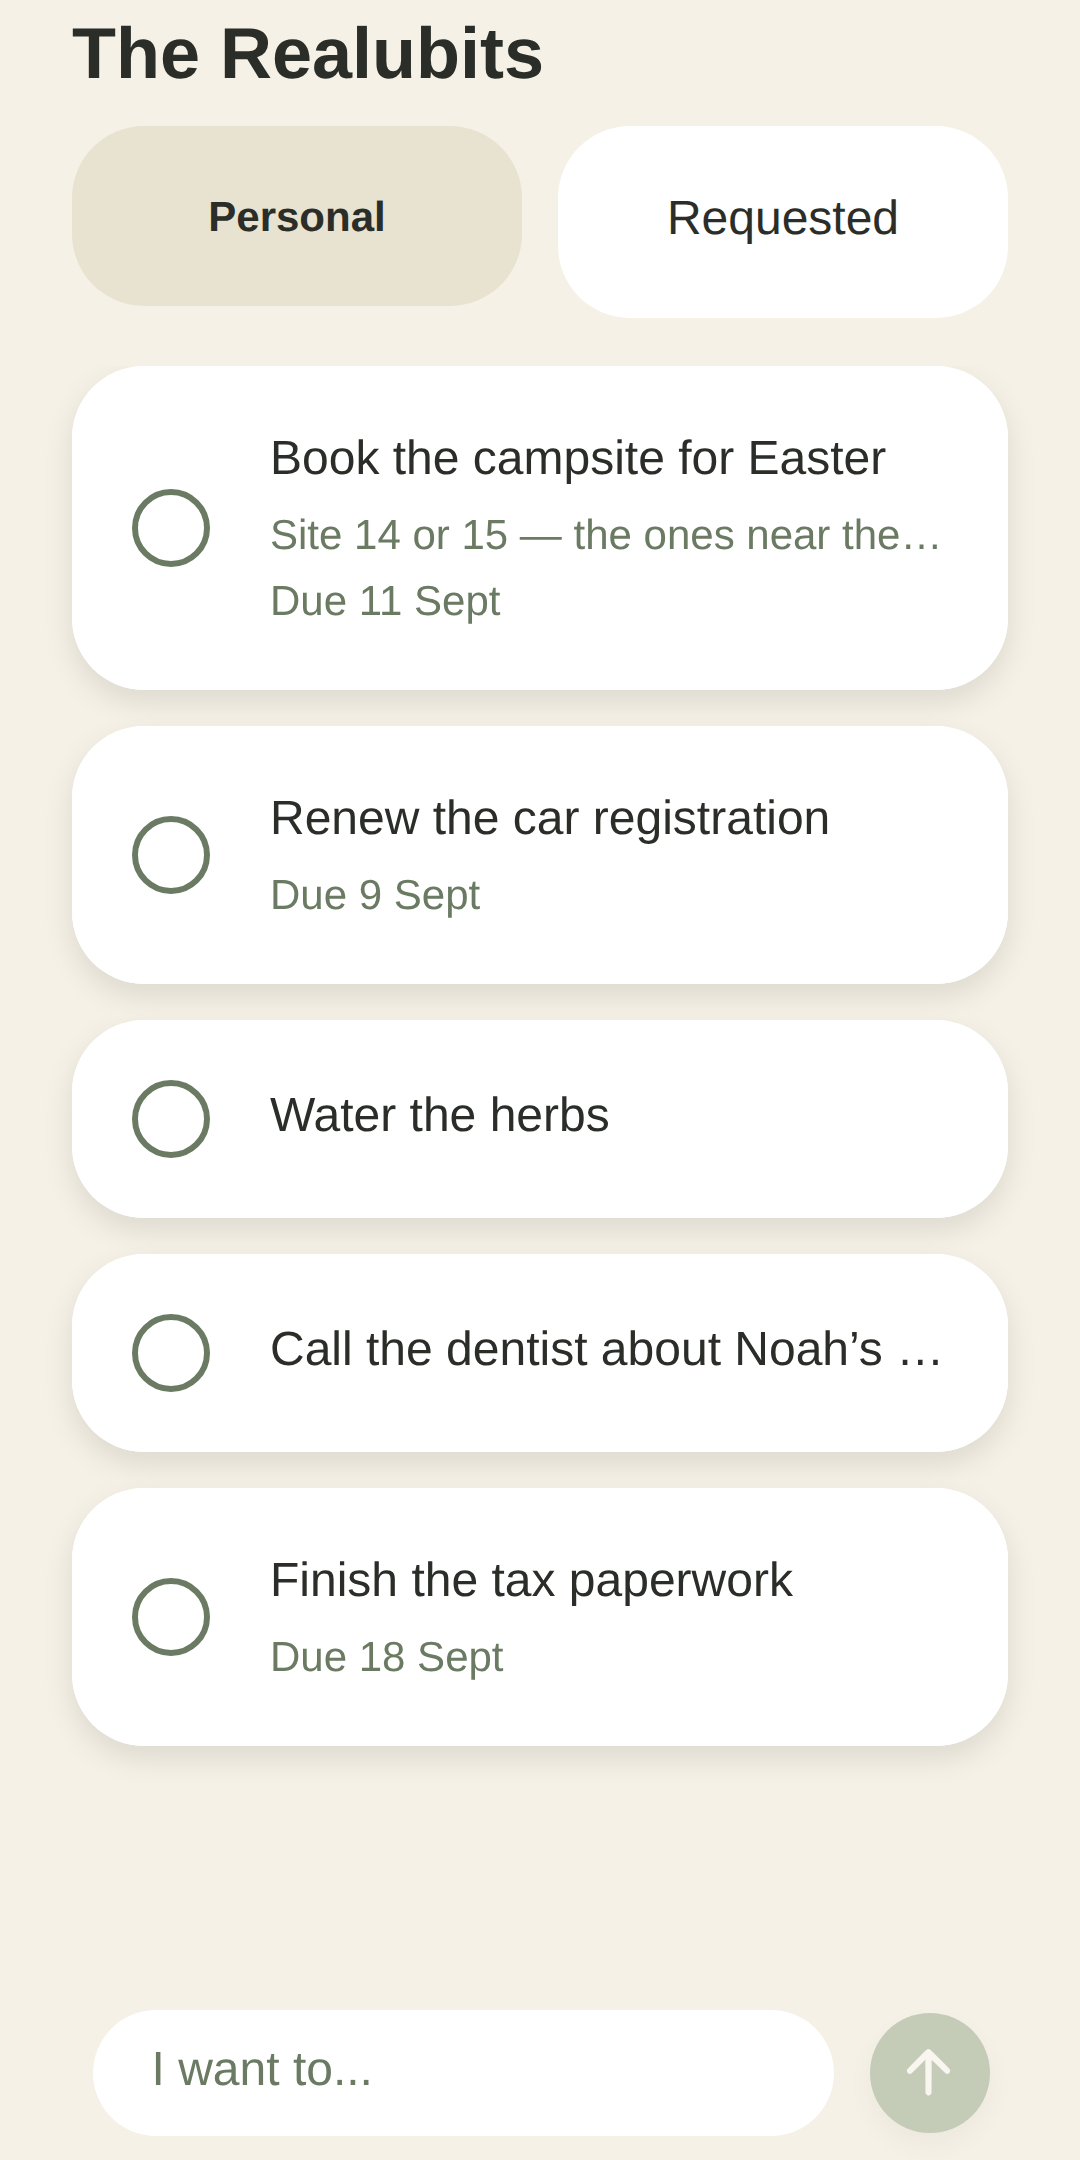
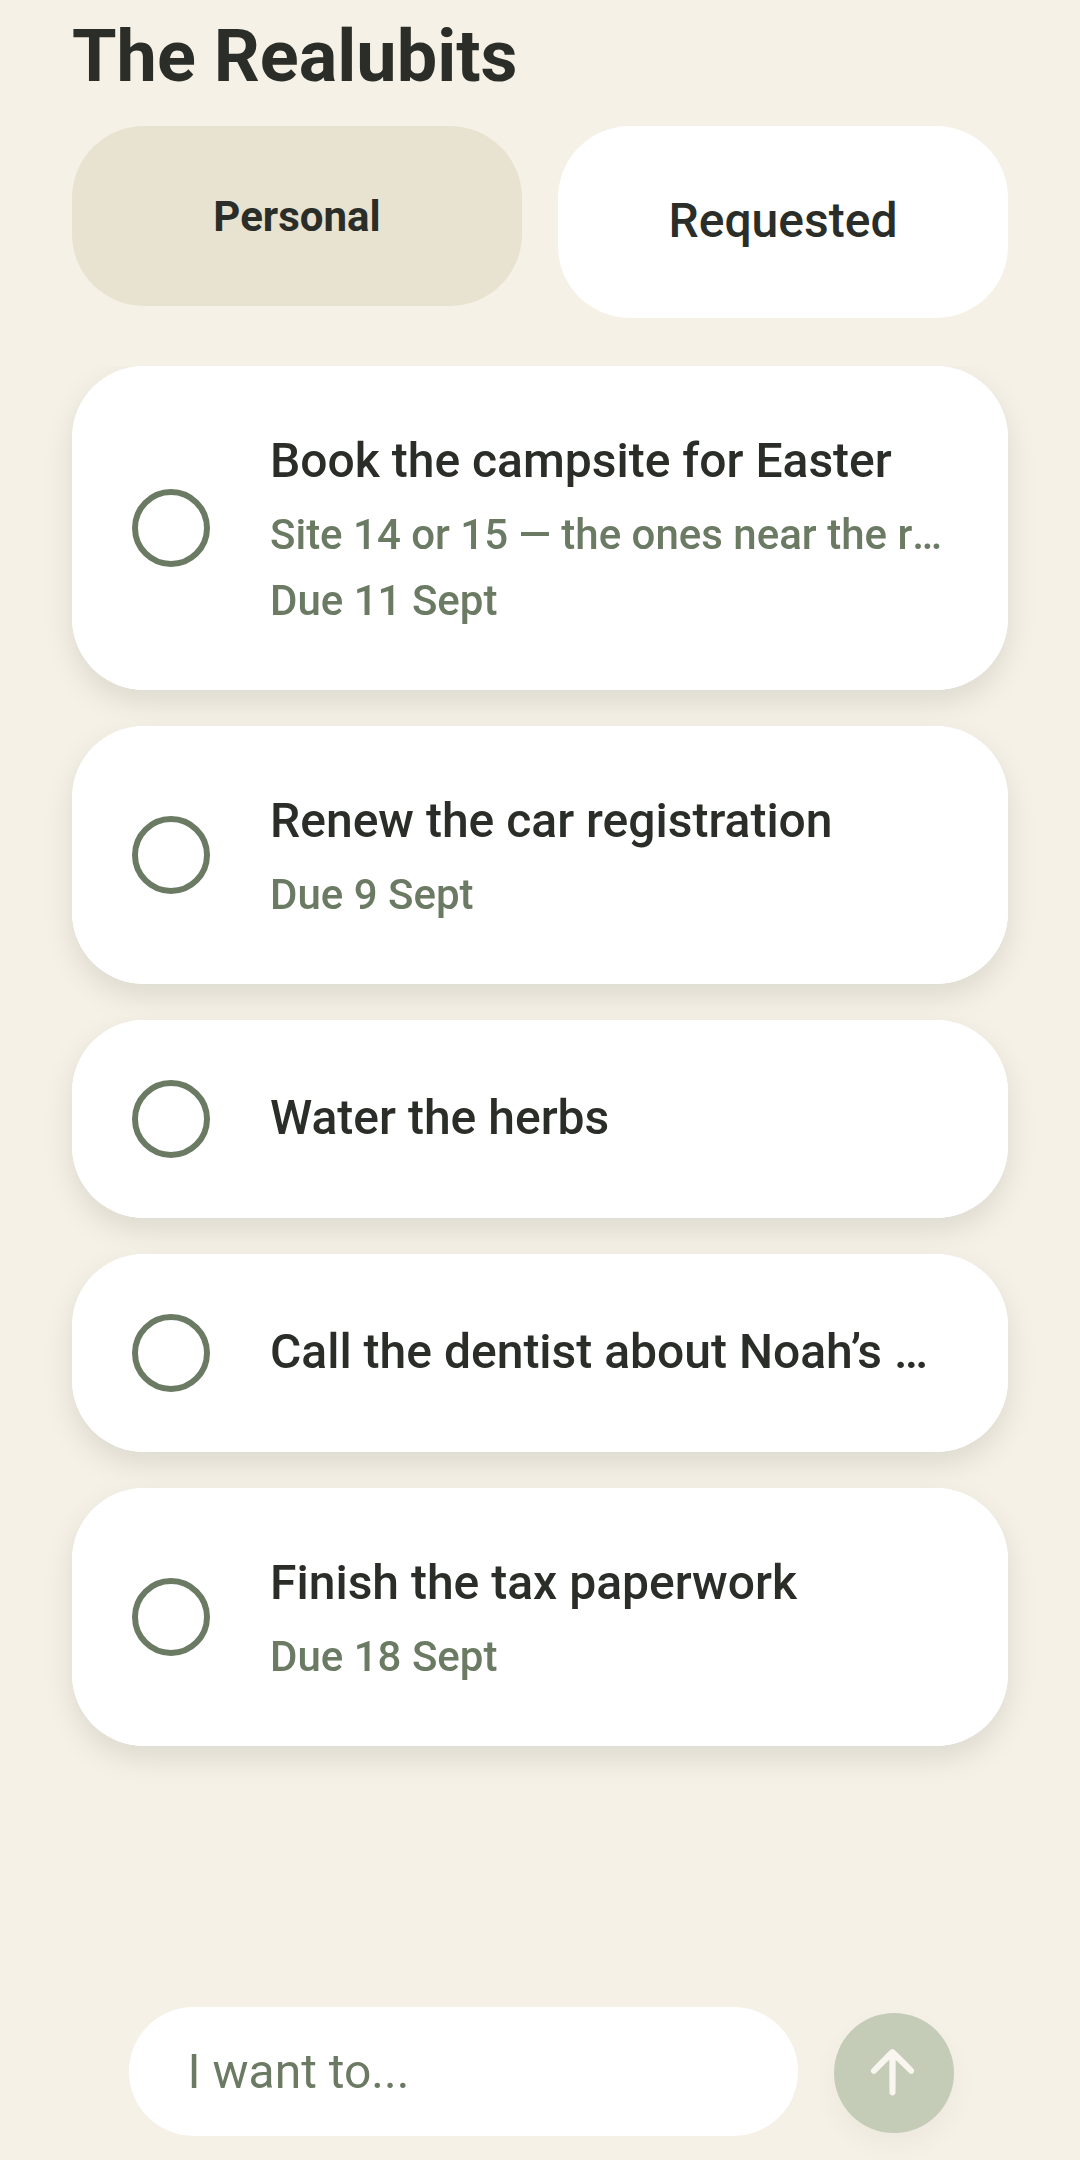
Render the store screenshots in Roboto, and add the Group screen
The Group screenshot was dropped from the set last commit as unusable: the
group name ellipsised to "The Realu..." and the Share button overflowed the
card. That was blamed on react-native-web layout. It was the font.

Android resolves the app's font to 'normal' — the system sans, Roboto
(src/constants/theme.ts, the Platform.select default branch). The web branch
asks for var(--font-rounded), which src/global.css defines as SF Pro Rounded,
Hiragino Maru Gothic ProN, Meiryo, MS PGothic, sans-serif. None of those exist
on Linux, so Chromium substituted DejaVu Sans, which is far wider: the 48px
invite code rendered 240px against Roboto's 217px, which is what pushed Share
off the card and squeezed the title.

So the capture now serves real Roboto from @fontsource/roboto and points the
custom properties at it, and refuses to run if the face did not load. Measured
under Roboto the Share button fits at 360, 393 and 412dp — there was no
responsive bug to fix. Group is back in the set, and the other four are now in
the typeface the phone actually uses.

The task edit form stays out. Its due-date field is a genuine platform split
(src/components/due-date-picker.web.tsx) that no font affects, so both docs say
to capture it on a device.

Investigating this surfaced two real styling bugs, left unfixed and written up
in the runbook instead, because they are coupled and change how the app looks
on a device:

- group-card.tsx builds its layout out of ThemedView, which always sets a
[…]

diff --git a/docs/play-store-deployment.md b/docs/play-store-deployment.md
@@ -193,42 +193,67 @@ account (email + password) on your Supabase project, seeded with a few tasks and
 Reviewers who cannot get past a login screen reject the submission. Create this account now and do
 not delete it.
 
-### B6. Screenshots — **four generated, two still need a device**
+### B6. Screenshots — **five generated**, one screen still needs a device
 
-`npm run store:screenshots` captures the phone screenshots from the real app and writes them to
-`docs/store/screenshots/` at 1080x2160, 24-bit, no alpha — exactly Play's phone spec (320–3840px per
-side, long side at most twice the short side; 1080x2160 sits on that 2:1 cap).
+`npm run store:screenshots` captures them from the real app into `docs/store/screenshots/` at
+1080x2160, 24-bit, no alpha — Play's phone spec exactly (320–3840px per side, long side at most twice
+the short side; 1080x2160 sits on that 2:1 cap).
 
-They are genuine renders of the shipped screens, not mockups: the script serves the web export of
-the same Expo Router code the Android app runs, seeds a session, and answers every Supabase call
-from fixtures, so it needs no demo account and no network. Each shot asserts a string it expects to
-find before it is written — an early version silently produced five copies of the Tasks screen
-because a hard URL load re-ran the auth guard, and the assertion is what catches that.
+They are genuine renders of the shipped screens: the script serves the web export of the same Expo
+Router code the Android app runs, seeds a session, and answers every Supabase call from fixtures, so
+it needs no demo account and no network. Each shot asserts a string it expects on screen before it
+is written.
 
 | File | Screen |
 |---|---|
 | `01-my-tasks.png` | Personal task list with notes and due dates |
 | `02-requested.png` | Requested tab — tasks another member asked for, with their name |
-| `03-history.png` | Completed and cancelled tasks with undo |
-| `04-settings.png` | Profile and the theme picker |
+| `03-group.png` | Group card: invite code, members and roles |
+| `04-history.png` | Completed and cancelled tasks with undo |
+| `05-settings.png` | Profile and the theme picker |
 
-**Two screens are deliberately excluded**, because react-native-web renders them differently from
-Android and a screenshot that misrepresents the app is worse than one fewer screenshot:
+Two platform gaps are handled so the capture matches a phone rather than a Linux browser:
 
-- **Group** — the header title truncates and the Share button overflows its row.
-- **Task edit** — the due-date field falls back to an HTML `<input type="date">` with a browser date
-  picker; Android uses the native `@react-native-community/datetimepicker`.
+- **Font.** Android resolves the app's font to `'normal'` — the system sans, Roboto. The web branch
+  asks for `var(--font-rounded)`, which lists SF Pro Rounded / Hiragino / Meiryo, none of which exist
+  on Linux, so Chromium substituted DejaVu Sans. DejaVu is far wider: it rendered the 48px invite
+  code at 240px where Roboto gives 217px, pushing the Share button off the card and ellipsising a
+  group name that fits fine on a phone. The script serves real Roboto (`@fontsource/roboto`) and
+  points the custom properties at it, then refuses to run if it did not load. **There was never a
+  responsive bug here** — measured under Roboto, the Share button fits at 360, 393 and 412dp.
+- **Tab bar.** The web build renders its own top tab strip where Android renders a native bottom bar.
+  It is measured on the signed-in Tasks screen, the viewport grown by exactly that much, then cropped
+  back off — so nothing is painted in to fill the gap.
 
-Four satisfies Play (minimum 2, up to 8) and covers the whole story. If you want Group in the
-listing, capture it on a device — the release APK is already installed. Volume down + power, or:
+**The task edit form is still not captured.** Its due-date field is a real platform split
+(`src/components/due-date-picker.web.tsx`): web renders an HTML `<input type="date">` with a browser
+date picker where Android uses `@react-native-community/datetimepicker`. No font fixes that. Capture
+it on a device if you want it — the release APK is already installed:
 
 ```bash
-adb exec-out screencap -p > group.png
+adb exec-out screencap -p > task-detail.png
 ```
 
-A phone screenshot at 1080x2400 or taller is past the 2:1 cap, so crop it to 1080x2160 before
-uploading. The old `docs/user-guide/images/*.png` are illustrations at 780x1688 (1:2.16, also past
-the cap) and are not a substitute.
+A phone screenshot at 1080x2400 or taller is past the 2:1 cap, so crop to 1080x2160 before
+uploading. The `docs/user-guide/images/*.png` are illustrations at 780x1688 (1:2.16, also past the
+cap) and are not a substitute.
+
+#### Two styling bugs found while doing this — not fixed, your call
+
+Both are real and visible on Android, not web artifacts. They are coupled, so fixing one alone makes
+things worse:
+
+1. **`src/components/group-card.tsx` bands the card.** Its layout wrappers are `ThemedView`, which
+   always applies `backgroundColor: theme[type ?? 'background']`. Inside the white card that repaints
+   the beige screen background (`#F5F1E6`) over it, in horizontal bands. `docs/user-guide/images/11-invite-code.png`
+   shows the intended look — an unbanded white card. The fix is to make those wrappers plain `View`.
+2. **Secondary buttons are invisible on a white surface.** `PrimaryButton` with `variant="secondary"`
+   fills with `theme.backgroundElement` (`#FFFFFF`) and sets no border and no shadow. On the white
+   group card, Share / Rename Group / Make owner / Remove have no edge at all — they only read as
+   buttons today *because* of the banding in (1). Fixing (1) without giving the secondary variant a
+   border or elevation turns every one of those buttons into plain text.
+
+The screenshot ships with the banding, because that is what the app currently looks like.
 
 ### B7. ~~The feature graphic has an alpha channel~~ — **fixed**
 

diff --git a/docs/play-store-listing.md b/docs/play-store-listing.md
@@ -79,17 +79,19 @@ branch*, branch `main`, folder `/docs`. Load the URLs in a private window once t
 ## Phone screenshots
 
 Generated by `npm run store:screenshots` into `docs/store/screenshots/` — real renders of the app at
-1080x2160, 24-bit, no alpha. Upload all four under **Store listing → Phone screenshots**:
+1080x2160, 24-bit, no alpha. Upload all five under **Store listing → Phone screenshots**:
 
 | File | What it shows |
 |---|---|
 | `01-my-tasks.png` | The personal list — notes, due dates, compose bar |
 | `02-requested.png` | A task another member asked for, with their name on it |
-| `03-history.png` | Completed and cancelled tasks, with undo |
-| `04-settings.png` | Profile and the theme picker |
+| `03-group.png` | Invite code, members and their roles |
+| `04-history.png` | Completed and cancelled tasks, with undo |
+| `05-settings.png` | Profile and the theme picker |
 
-The Group and Task-edit screens are not in the set because they render differently on web than on
-Android; capture those on a device if you want them. See `play-store-deployment.md` B6.
+The task edit form is not in the set — its due-date field renders as an HTML date input on web where
+Android uses the native picker. Capture it on a device if you want it. See
+`play-store-deployment.md` B6.
 
 ## Content rating questionnaire (IARC)
 
